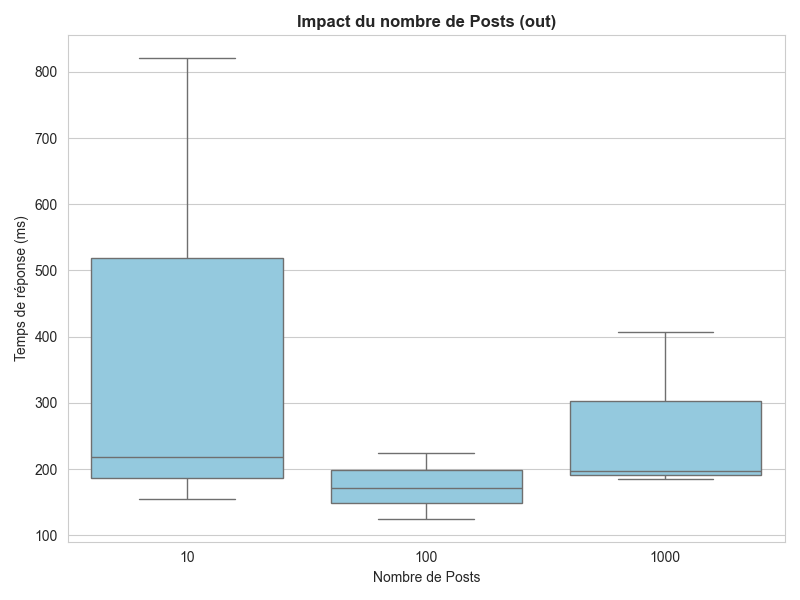
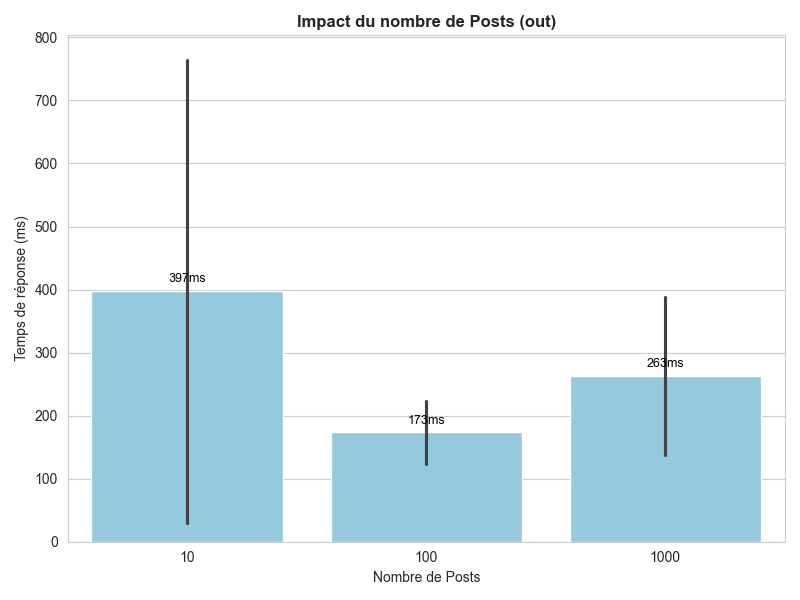
boxplot -> barplot

diff --git a/barplot.py b/barplot.py
@@ -81,8 +81,9 @@ def generer_graphiques(source_folder, output_folder='plots'):
             
             # Vérification que la colonne PARAM existe pour l'axe X
             if 'PARAM' in df.columns:
-                sns.boxplot(x='PARAM', y='AVG_TIME_VAL', data=df, ax=ax, color=config['color'])
-                
+                # On trace un barplot de la moyenne par PARAM (avec erreur type écart-type)
+                sns.barplot(x='PARAM', y='AVG_TIME_VAL', data=df, ax=ax, color=config['color'], ci='sd')
+
                 ax.set_title(title, fontsize=12, fontweight='bold')
                 ax.set_xlabel(config['xlabel'])
                 ax.set_ylabel('Temps de réponse (ms)')
@@ -90,6 +91,19 @@ def generer_graphiques(source_folder, output_folder='plots'):
                 # Log scale si valeurs très grandes
                 if df['AVG_TIME_VAL'].max() > 2000:
                     ax.set_yscale('log')
+
+                # Annoter chaque barre avec la valeur moyenne arrondie
+                for p in ax.patches:
+                    try:
+                        height = p.get_height()
+                        if height is None:
+                            continue
+                        ax.annotate(f"{int(height)}ms",
+                                    (p.get_x() + p.get_width() / 2., height),
+                                    ha='center', va='bottom', fontsize=9, color='black',
+                                    xytext=(0, 4), textcoords='offset points')
+                    except Exception:
+                        pass
 
                 plt.tight_layout()
 
